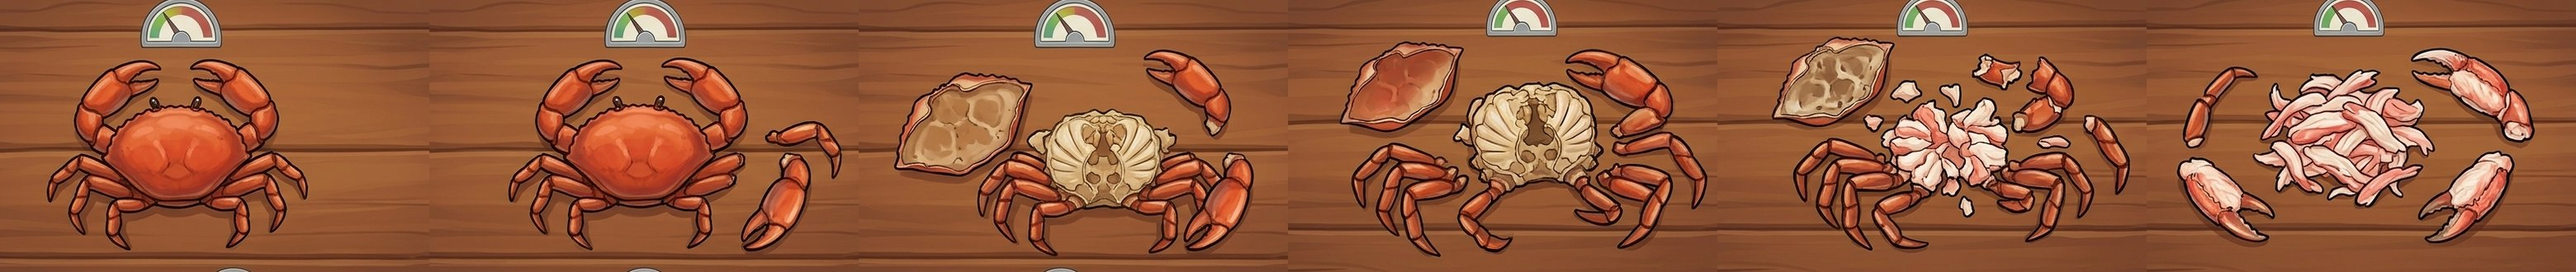
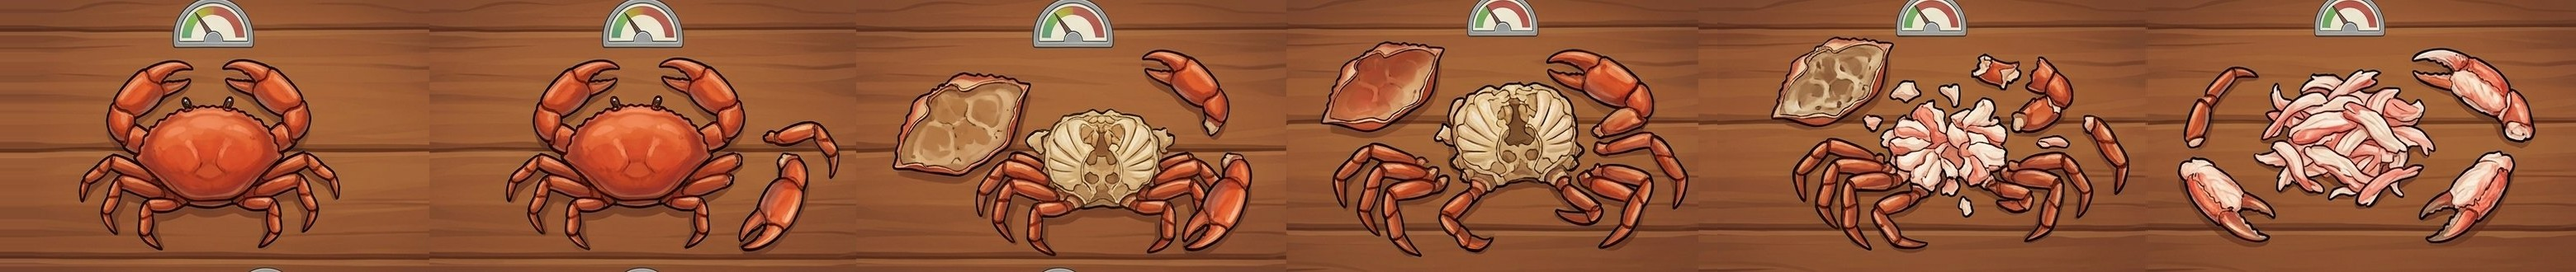
Soupe de crabe : images des planches recentrées (plus de saut)
Claude-Session: https://claude.ai/code/session_014bi368SbjZ4sCSmbjCzFcj

diff --git a/game.js b/game.js
@@ -7833,7 +7833,7 @@ const CK_EASY = { xmiel: [0, 1, 2, 3], xhuile: [0, 1, 2, 3], gmangue: [0, 2, 4, 
 const cookSteps = r => { const l = lvP(), k = Object.keys(RECIPES).find(i => RECIPES[i] === r); return l.easy && CK_EASY[k] ? CK_EASY[k].map(i => r.steps[i]) : r.steps; };
 const lvP = () => { const l = CKLV[(mini.cklv == null ? 0 : mini.cklv)]; return mini.ckdef ? Object.assign({}, l, { tm: Math.max(-4, l.tm - 5), sp: l.sp * 1.35, zw: l.zw * .8, spd: l.spd + .03, up: l.up * .9, fl: Math.max(0, l.fl - .15), defi: 1 }) : l; };   // défi : chrono plus court et jauges plus rapides
 const CK = { el: null, r: null, step: 0, scores: [], raf: 0 };
-const CK_IMG = f => 'assets/cook/' + f + '.jpg' + (f === 'add_s' ? '?v=2' : '');
+const CK_IMG = f => 'assets/cook/' + f + '.jpg' + (f === 'add_s' || f === 'crab_s' ? '?v=3' : '');
 /* ----- plats : qualité (étoiles) + demandes secondaires des habitants ----- */
 const DISHES = ['gmangue', 'gbanane'];
 const DNAME = { gmangue: 'du Maïmaïa', gbanane: 'du Maïbuï', tipaiki: 'du Tipa Iki', soupe: 'de l\'Uja-Jiji', gmiel: 'du Gâteau doré au miel', barra: 'du Barra-Grill', papi: 'de la Papillote des récifs' };

diff --git a/index.html b/index.html
@@ -1149,7 +1149,7 @@
 <script src="mymask.js?v=4"></script>
 <script src="sprites.js?v=200"></script>
 <script src="art.js"></script>
-<script src="game.js?v=225"></script>
+<script src="game.js?v=226"></script>
 </body>
 </html>
 
